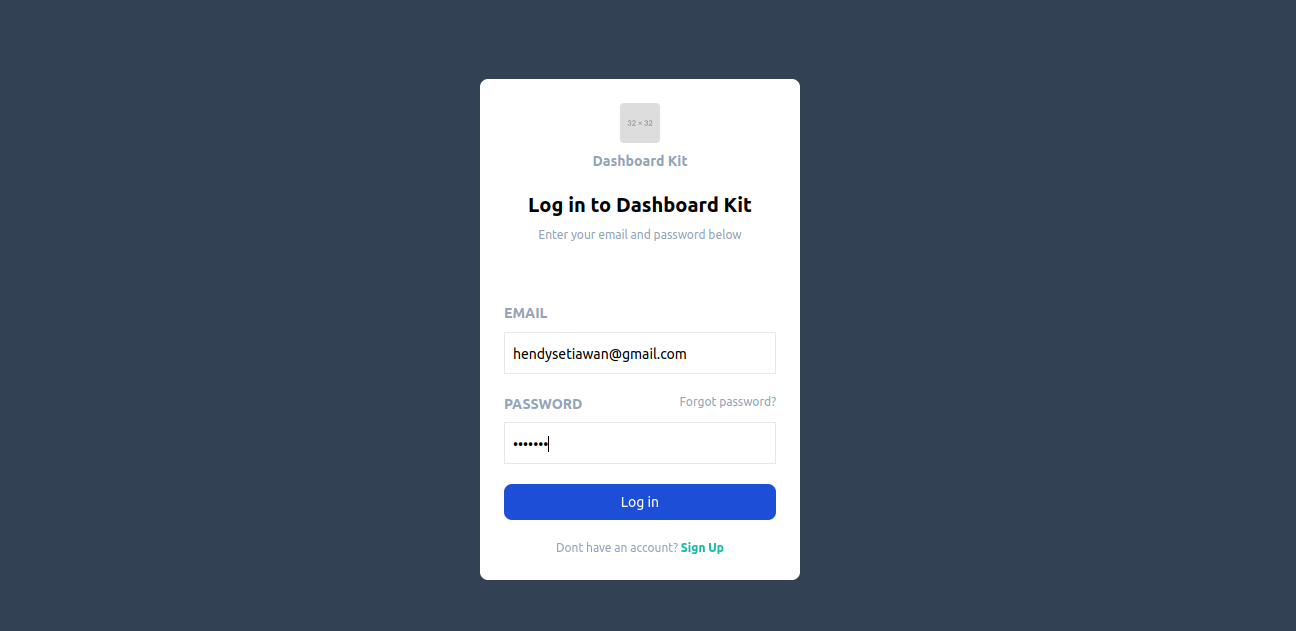
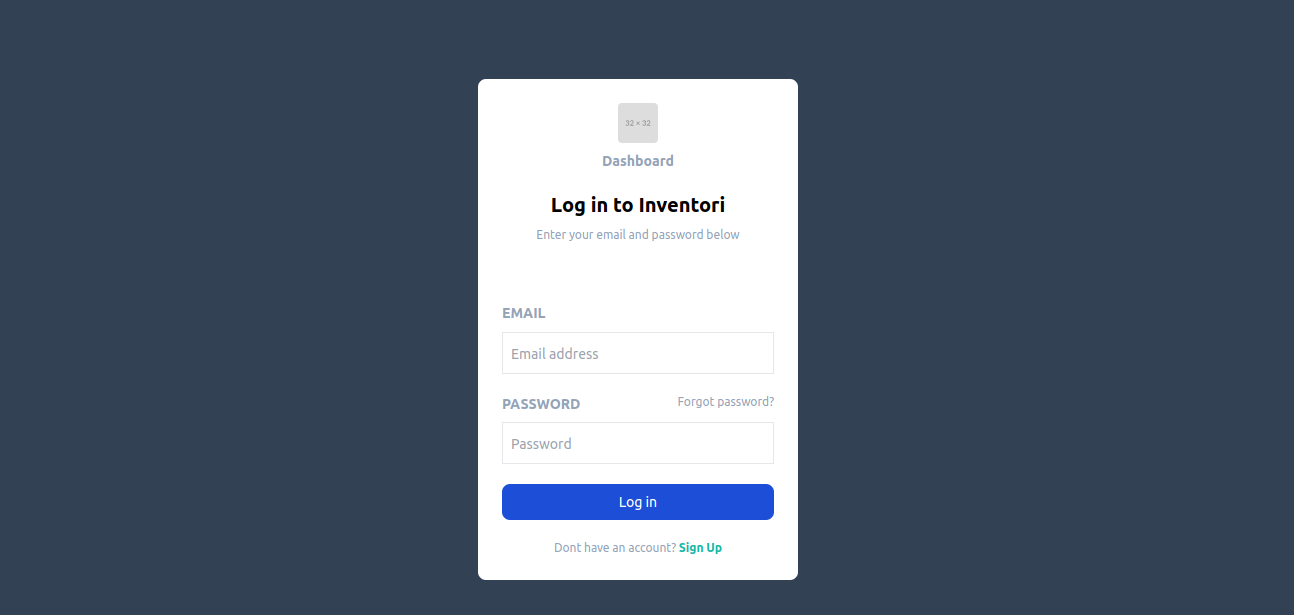
docs : add image docs

diff --git a/resources/views/auth/login.blade.php b/resources/views/auth/login.blade.php
@@ -18,9 +18,9 @@
               class="w-10 h-10 rounded mx-auto block object-cover"
             />
             <p class="text-sm text-slate-400 mt-2 font-semibold">
-              Dashboard Kit
+              Dashboard
             </p>
-            <p class="font-bold text-xl mt-5">Log in to Dashboard Kit</p>
+            <p class="font-bold text-xl mt-5">Log in to Inventori</p>
             <p class="text-slate-400 text-xs mt-2">
               Enter your email and password below
             </p>

diff --git a/README.md b/README.md
@@ -18,4 +18,14 @@ Teknologi yang digunakan
  7. Kelola Data Admin (CRUD)
  8. Multi Role Admin dan Officer
  
- ![Data Barang](/docs/data-barang.png)
+![Login](/docs/login.png)
+![Dashboard](/docs/dashboard.png)
+![Data Barang](/docs/data-barang.png)
+![Kategori](/docs/kategori.png)
+![Supplier](/docs/supplier.png)
+
+![Barang Masuk](/docs/barang-masuk.png)
+![Barang Keluar](/docs/barang-keluar.png)
+
+![Barang Petugas](/docs/data-petugas.png)
+![Barang Admin](/docs/data-admin.png)
